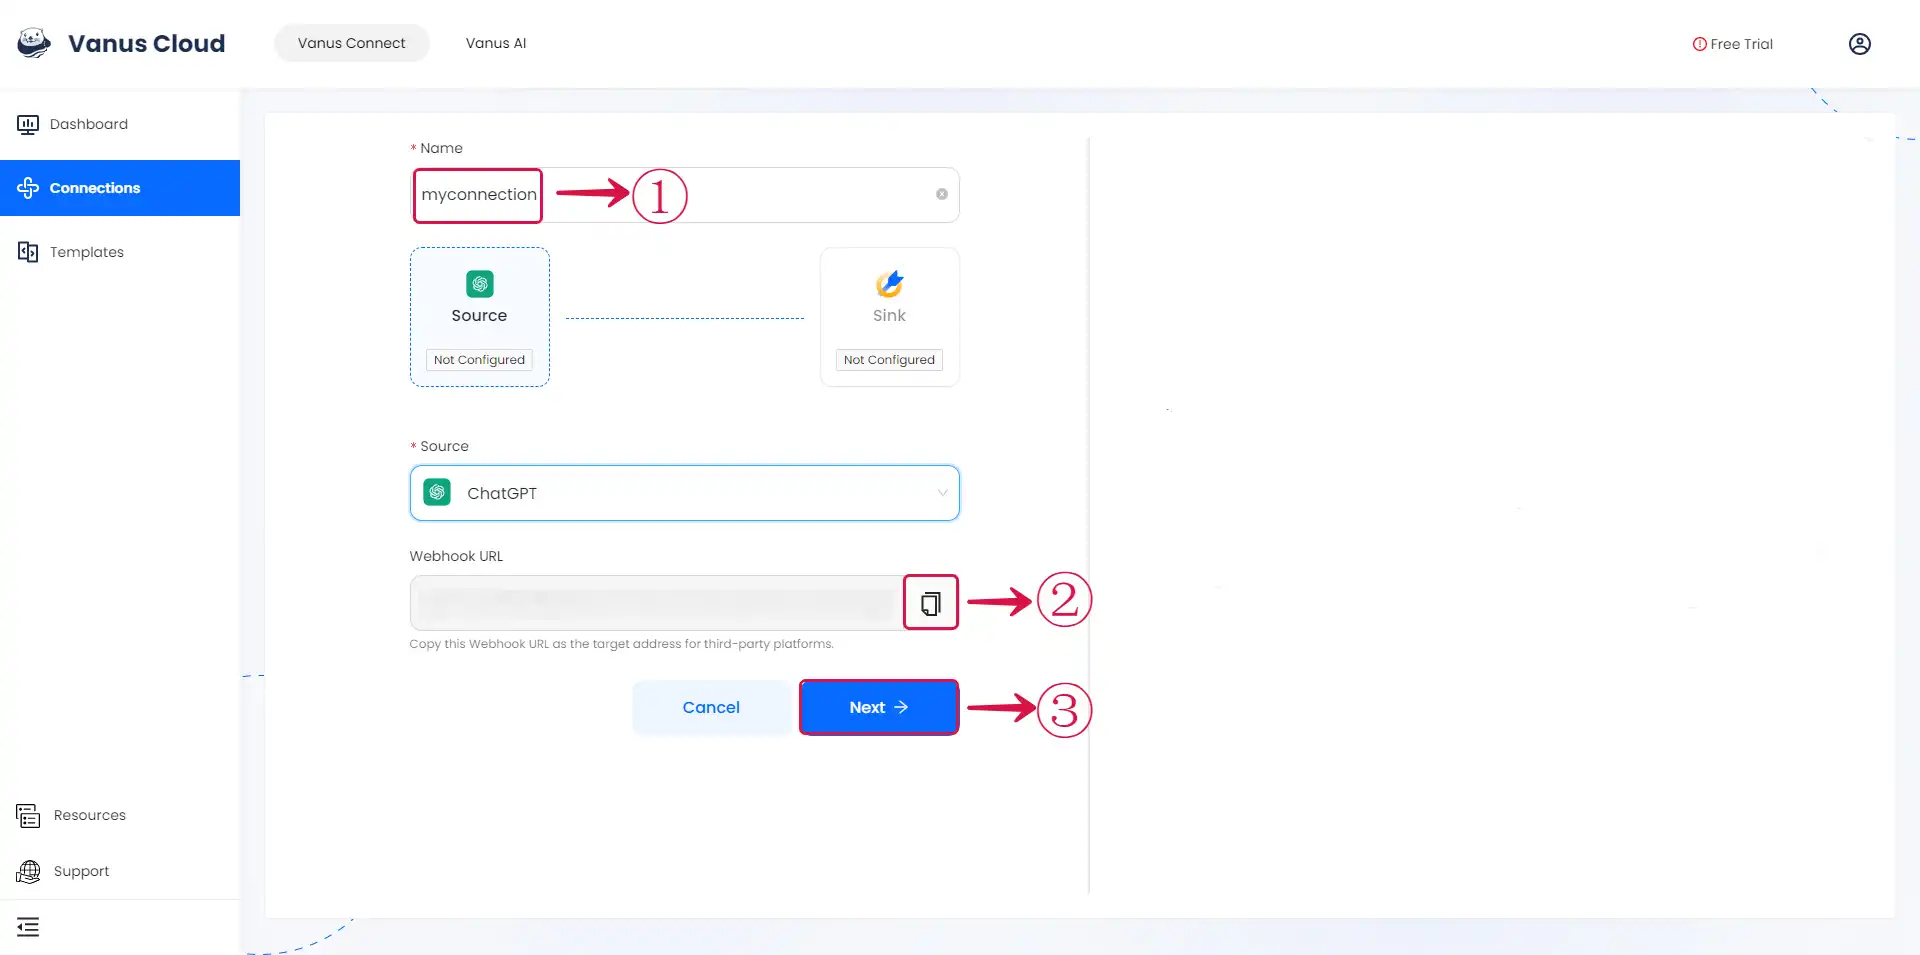
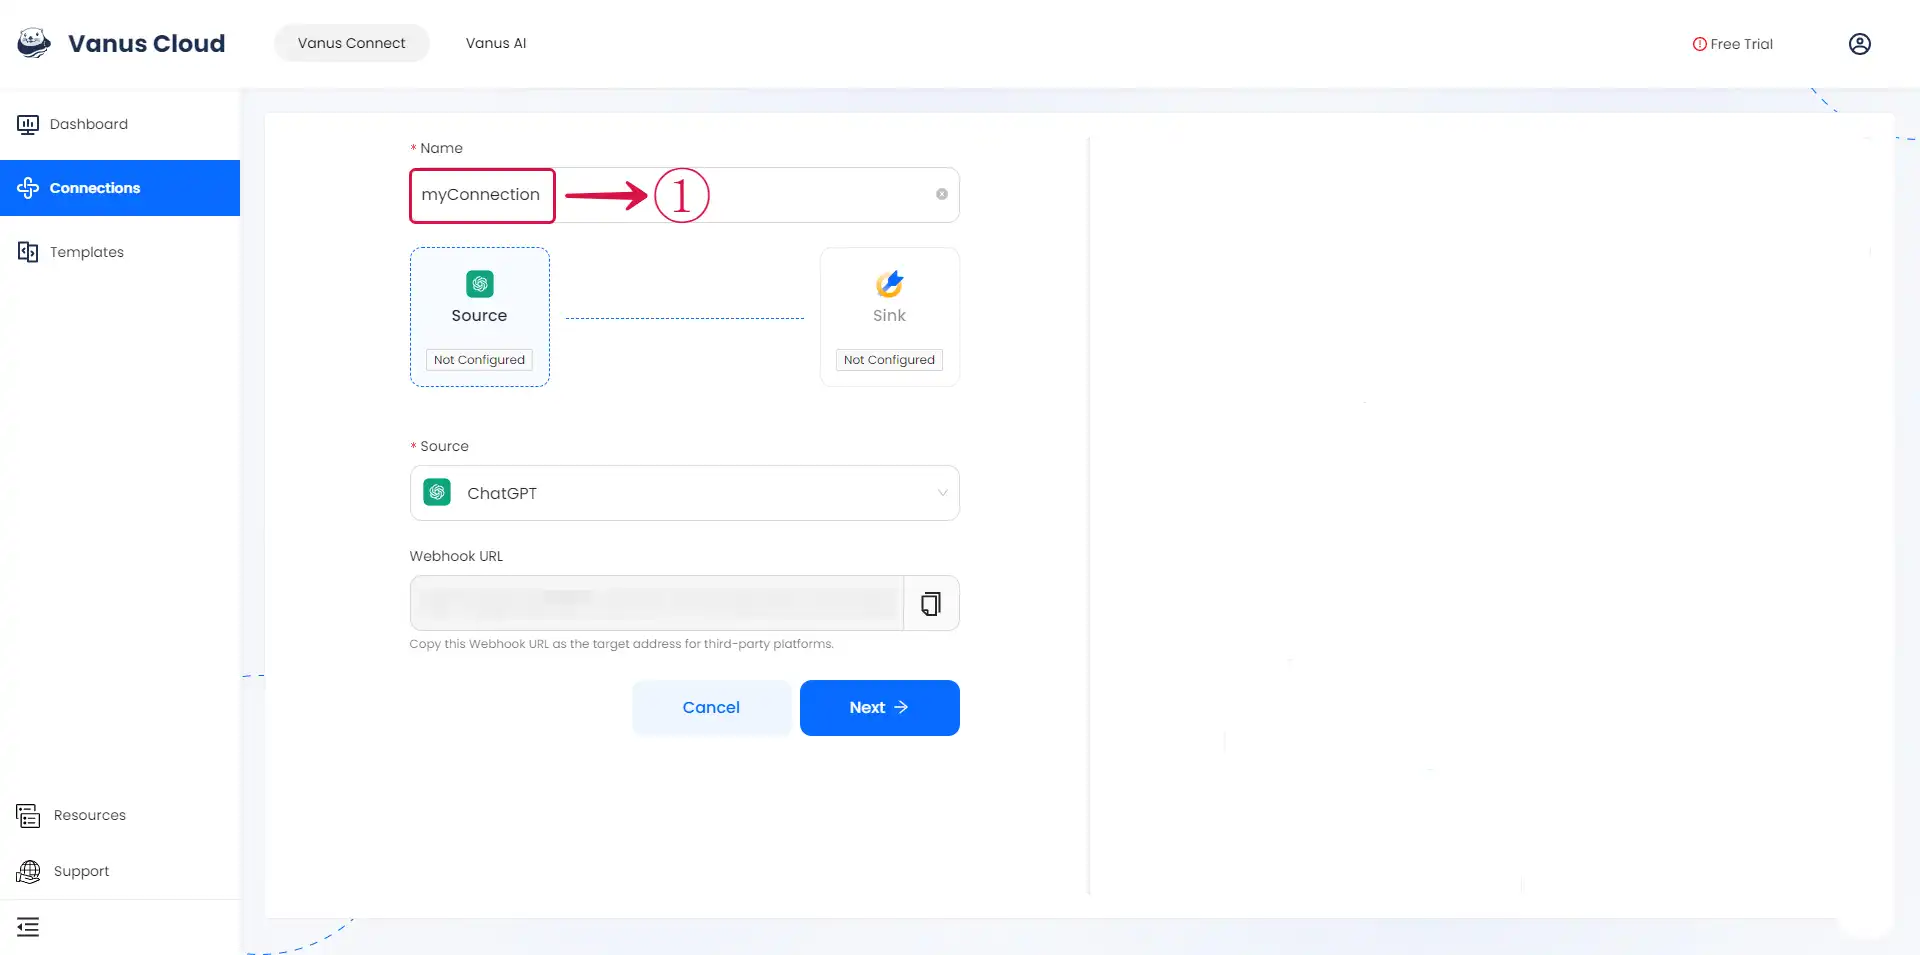
Docs: Update ChatGPT Source (#719)

diff --git a/content/vanus-connect/connector-guides/source/chatgpt/setup.md b/content/vanus-connect/connector-guides/source/chatgpt/setup.md
@@ -21,18 +21,14 @@ Before obtaining ChatGPT events, you must have:
 
 - Write a **Name**① for your connection in Vanus Connect.
 
-- Click on the **copy**② icon to copy the Webhook URL. Use the Webhook URL to receive events.
-
-- Click **Next**③ and continue the connection.
-
 ![chatgpt_source_1.webp](images/chatgpt_source_1.webp)
 
 
 ### How to setup ChatGPT in Feishu
 
-1.   Click on the **copy**① icon to copy the Webhook URL.
+1. Click on the **copy**① icon to copy the Webhook URL.
 
-![](images/cloud_feishu_10.webp)
+![chatgpt_source_3.webp](images/chatgpt_source_3.webp)
 
 2.  Go to Feishu and search for **Feishu Flow**② ③ or **飞书捷径** and click on it.
 
@@ -72,7 +68,11 @@ Before obtaining ChatGPT events, you must have:
 
 ![](images/cloud_feishu_20.webp)
 
-11. Now send a message in the group tagging the bot.
+11. Click **Next**㉒ to continue and complete the configuration.
+
+![chatgpt_source_2.webp](images/chatgpt_source_2.webp)
+
+Now send a message in the group tagging the bot.
 
 ![](images/cloud_feishu_21.webp)
 

diff --git a/content/cloud-docs/source/chatgpt/setup.md b/content/cloud-docs/source/chatgpt/setup.md
@@ -15,18 +15,14 @@ hide_title: true
 
 - Write a **Name**① for your connection in Vanus Connect.
 
-- Click on the **copy**② icon to copy the Webhook URL. Use the Webhook URL to receive events.
-
-- Click **Next**③ and continue the connection.
-
 ![chatgpt_source_1.webp](images/chatgpt_source_1.webp)
 
 
 ### How to setup ChatGPT in Feishu
 
-1.   Click on the **copy**① icon to copy the Webhook URL.
+1. Click on the **copy**① icon to copy the Webhook URL.
 
-![](images/cloud_feishu_10.webp)
+![chatgpt_source_3.webp](images/chatgpt_source_3.webp)
 
 2.  Go to Feishu and search for **Feishu Flow**② ③ or **飞书捷径** and click on it.
 
@@ -66,7 +62,11 @@ hide_title: true
 
 ![](images/cloud_feishu_20.webp)
 
-11. Now send a message in the group tagging the bot.
+11. Click **Next**㉒ to continue and complete the configuration.
+
+![chatgpt_source_2.webp](images/chatgpt_source_2.webp)
+
+Now send a message in the group tagging the bot.
 
 ![](images/cloud_feishu_21.webp)
 
